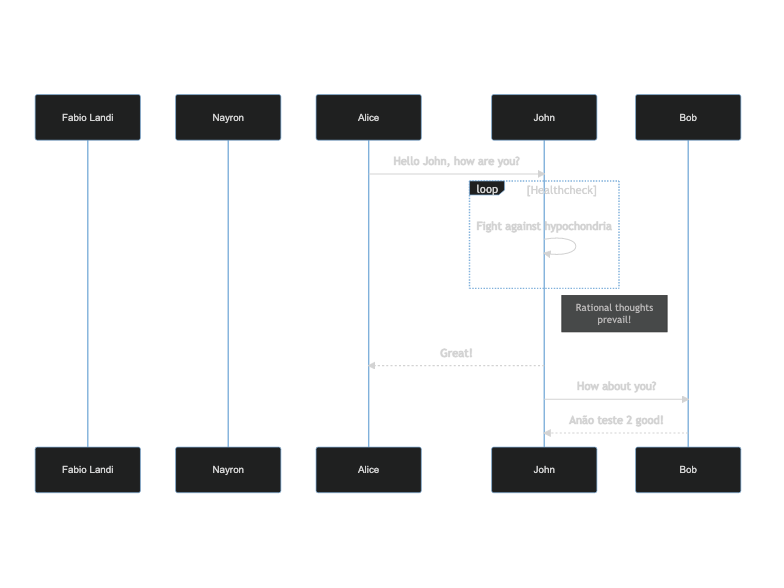
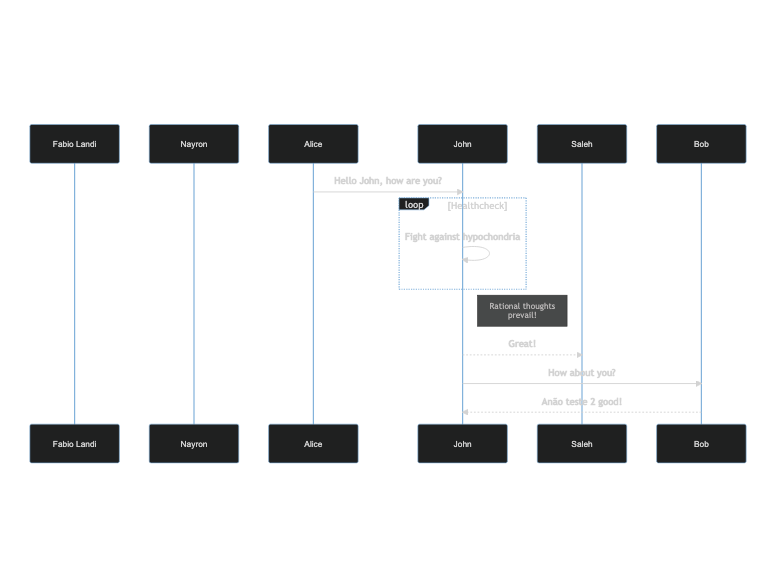
update

Changed region(s): [[0.0306, 0.1531, 0.9796, 0.8571], [0.4592, 0.6122, 0.4898, 0.6429]]

diff --git a/diagrams/some-service/some-service.md b/diagrams/some-service/some-service.md
@@ -7,7 +7,7 @@ sequenceDiagram
         John->>John: Fight against hypochondria
     end
     Note right of John: Rational thoughts <br/>prevail!
-    John-->>Alice: Great!
+    John-->>Saleh: Great!
     John->>Bob: How about you?
     Bob-->>John: Anão teste 2 good!
 ```
